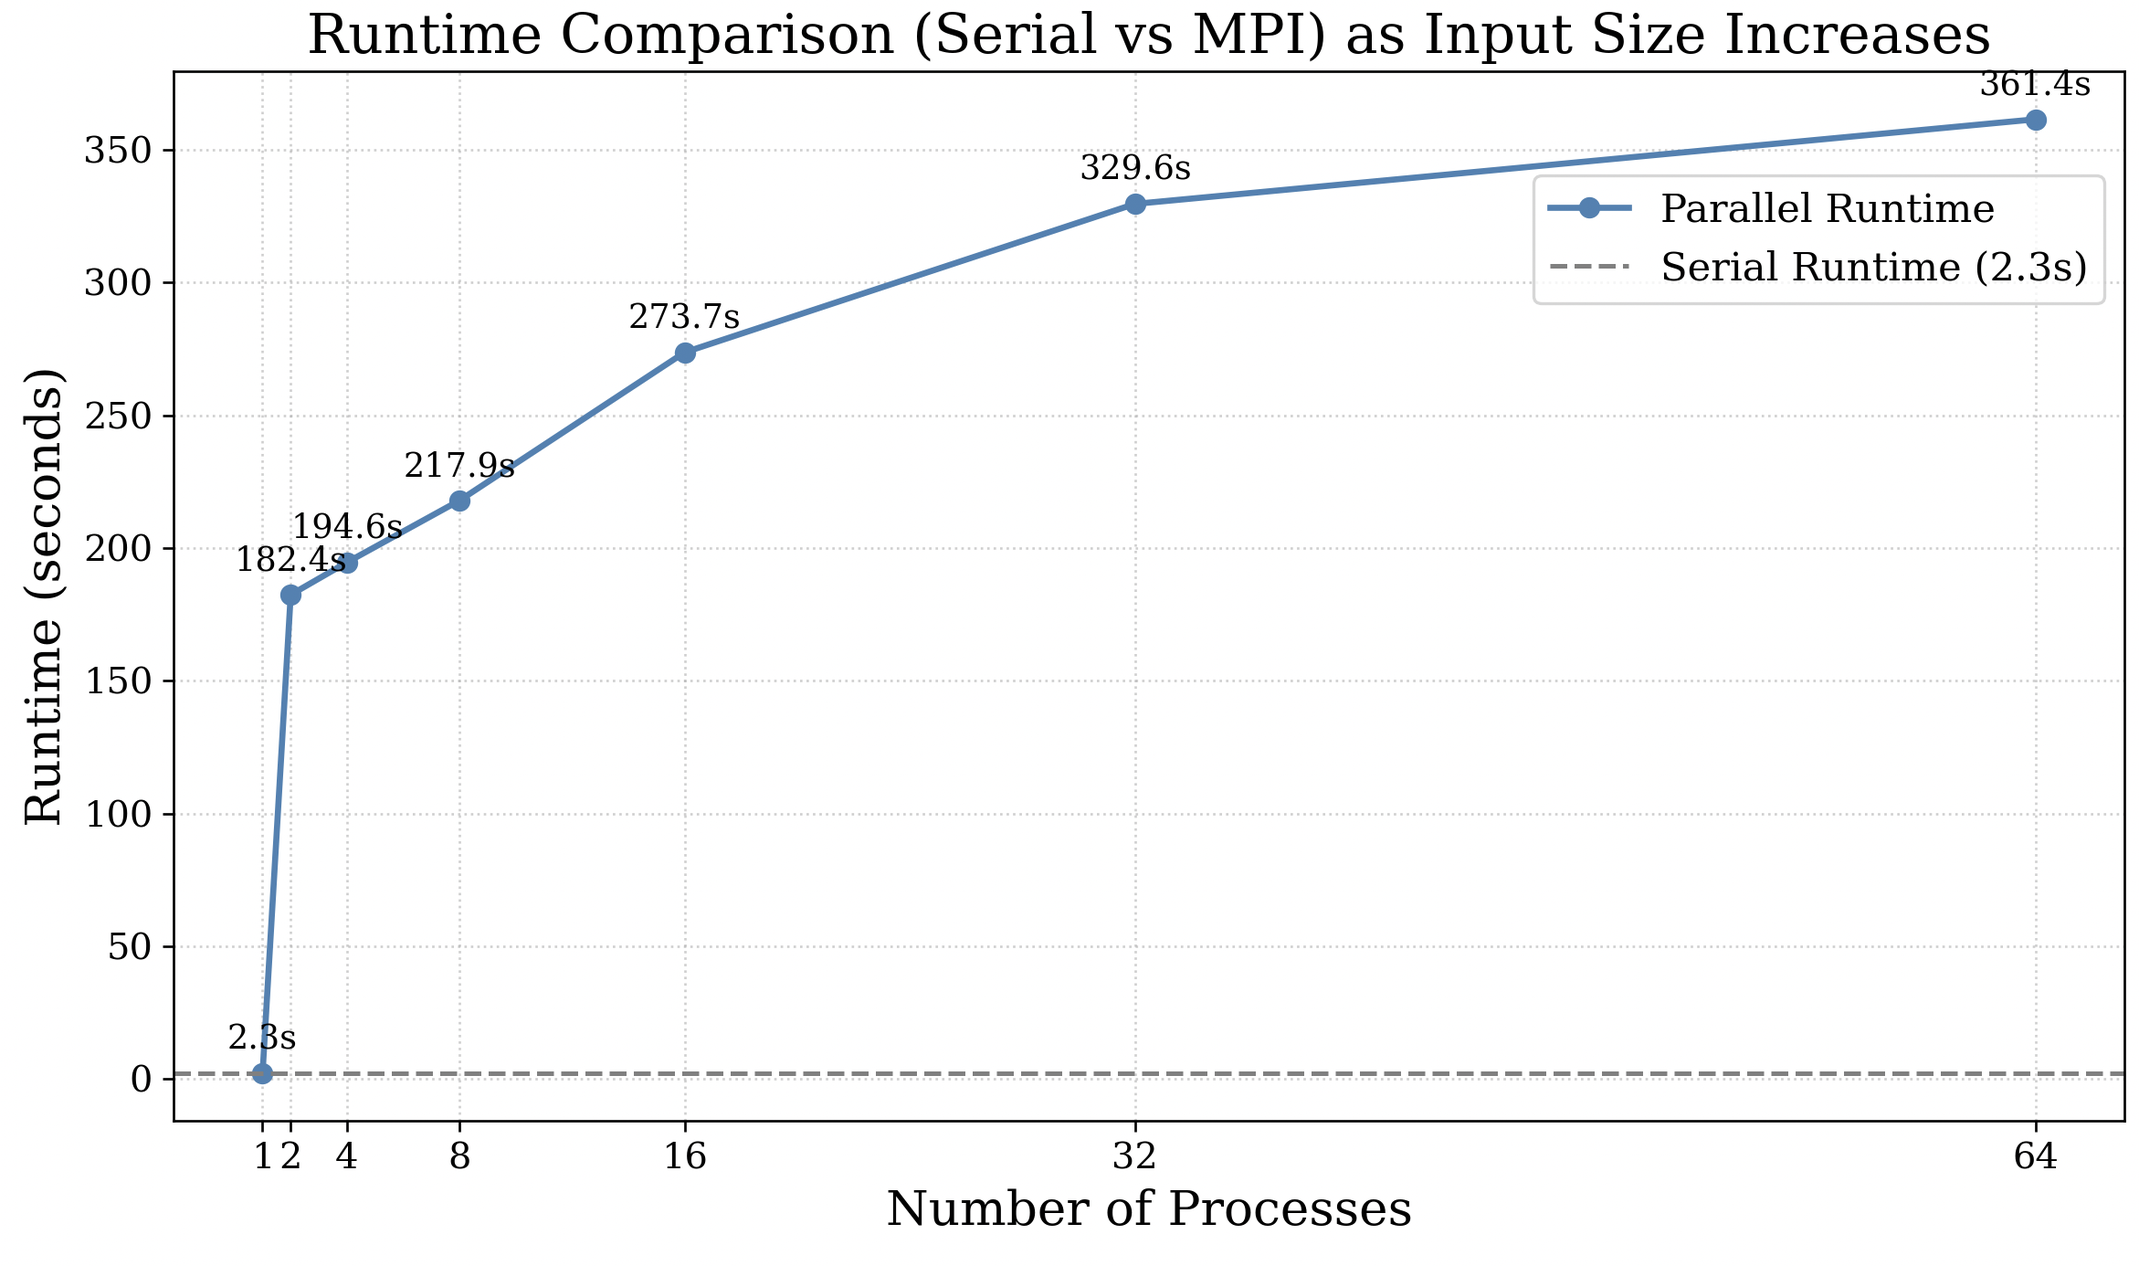
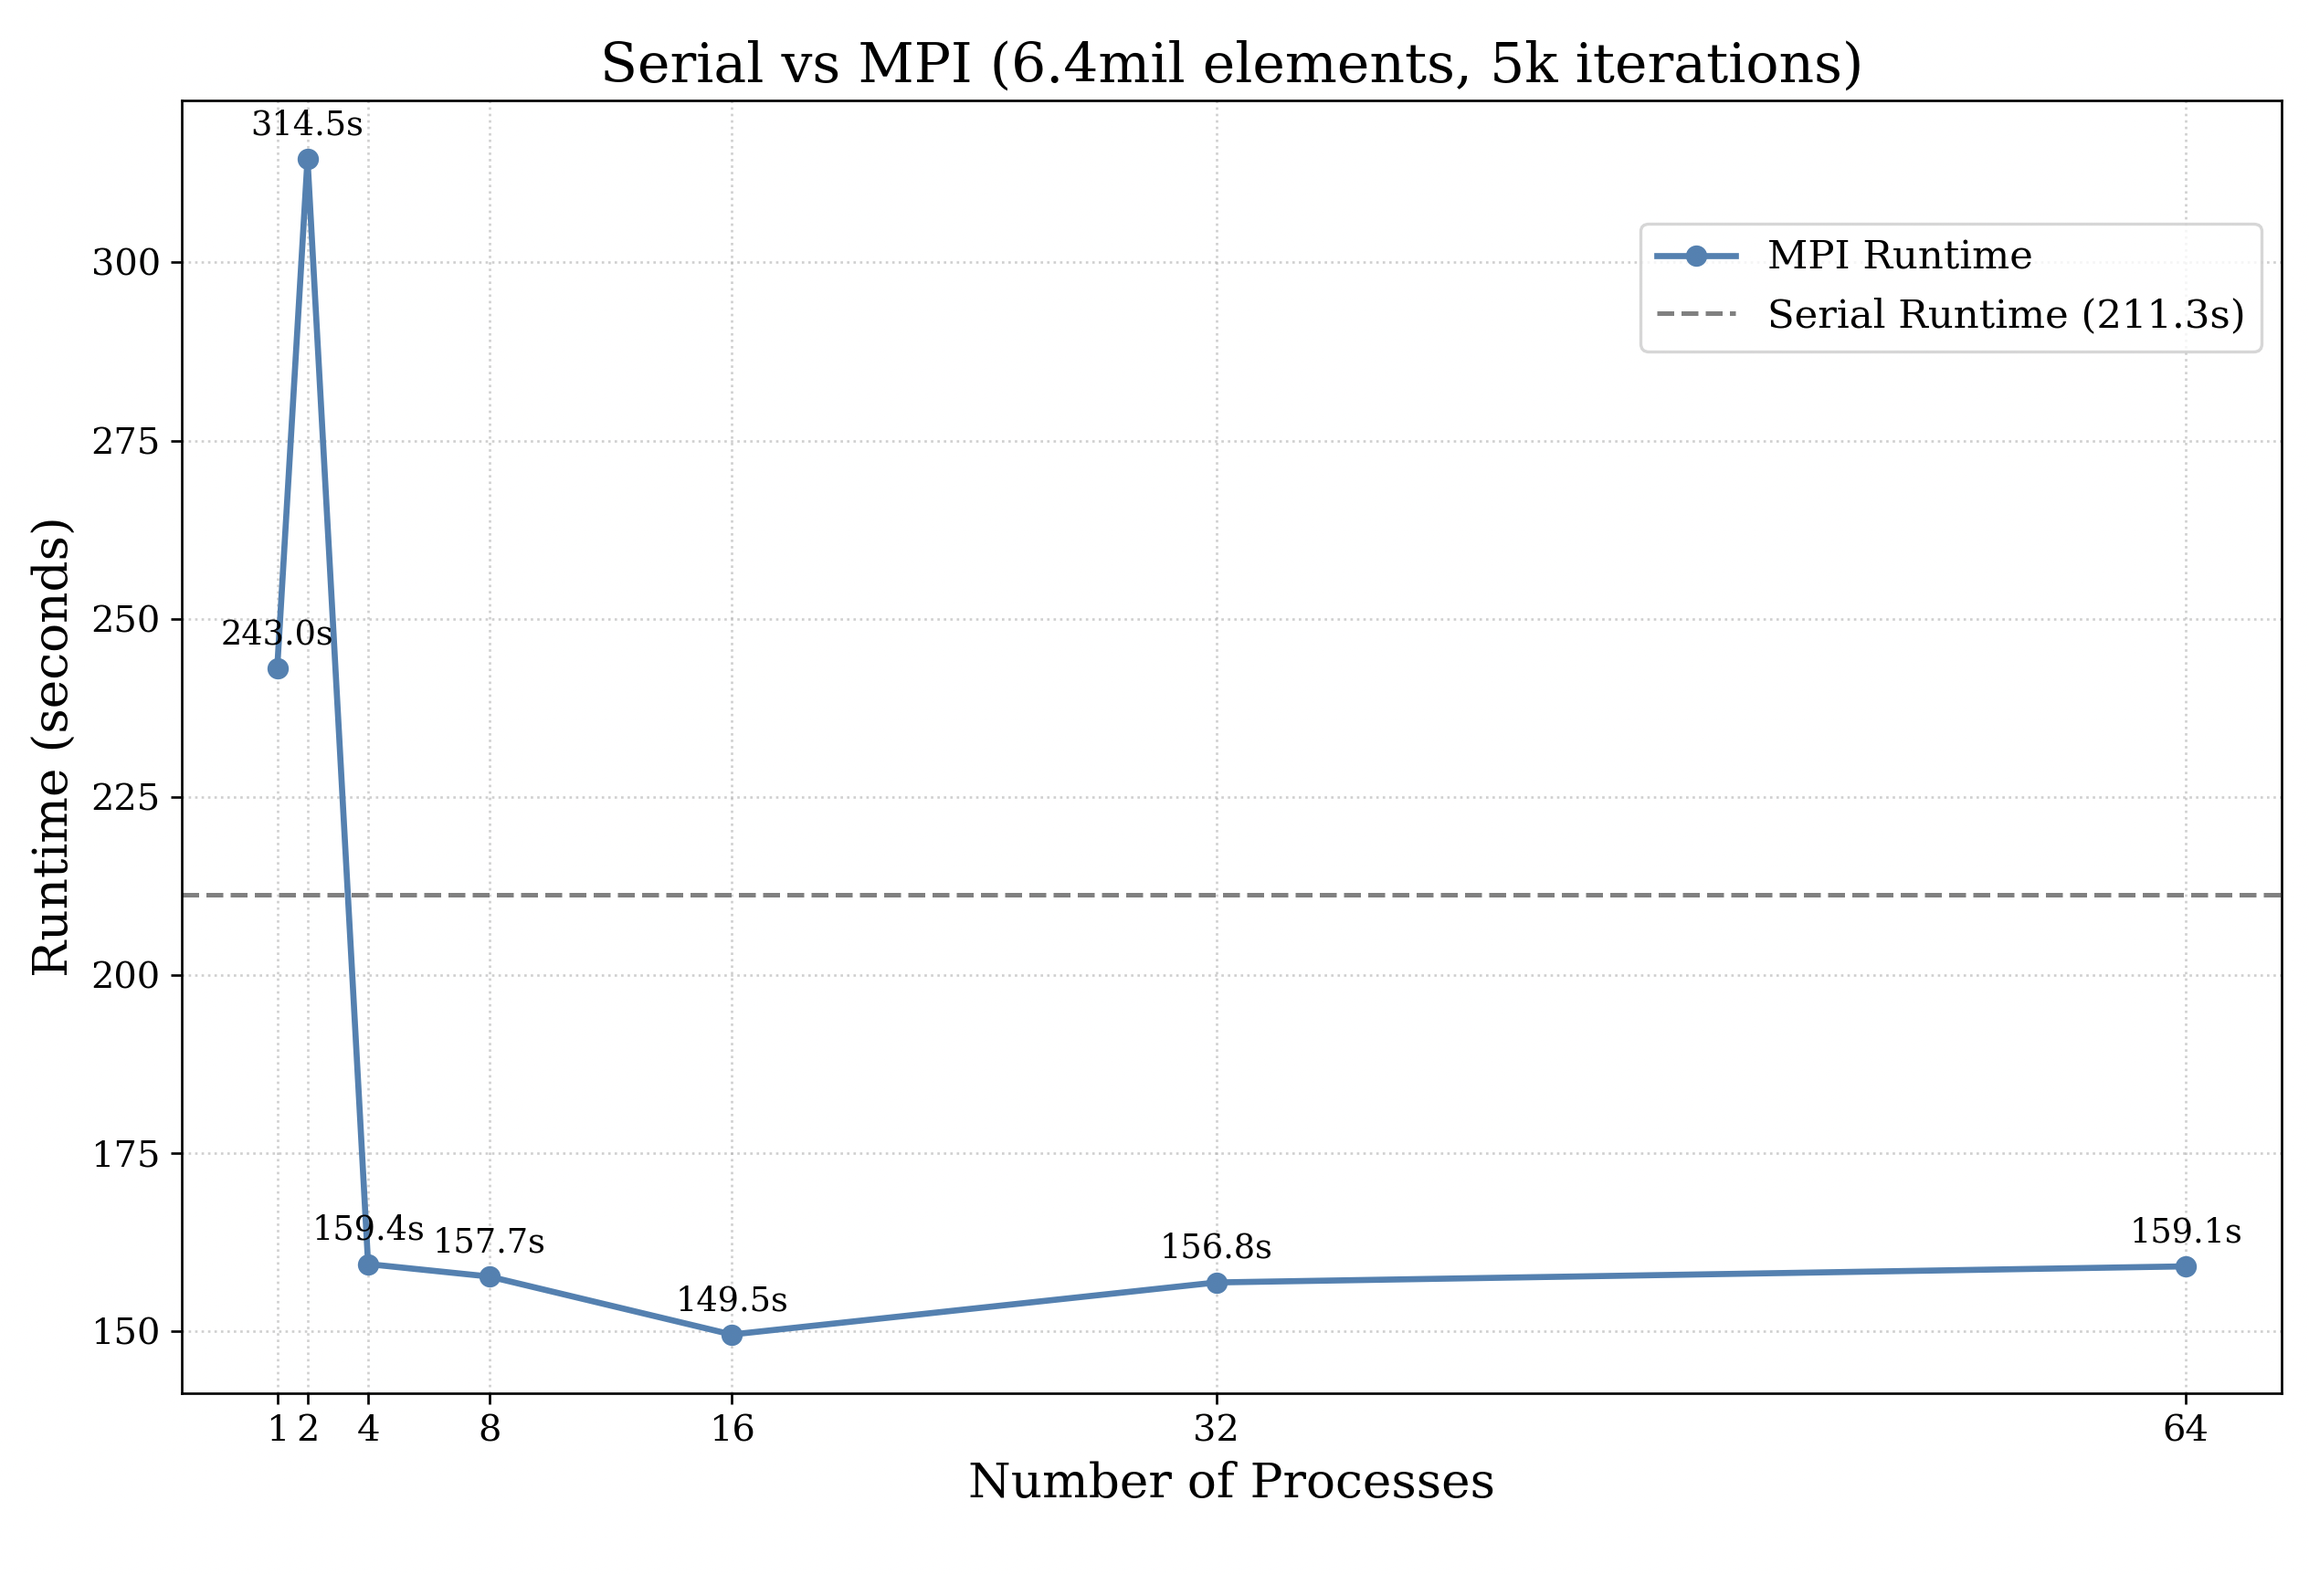
feat(a4,ex1): new plots for ex1

diff --git a/4_mpi/ex1/plotting.py b/4_mpi/ex1/plotting.py
@@ -6,15 +6,15 @@ from matplotlib.ticker import ScalarFormatter
 processes = np.array([1, 2, 4, 8, 16, 32, 64])
 
 # STRONG SCALING OUTPUT (grid_size: 64k)
-strong_parallel_runtimes = np.array([2.286553, 182.384184, 194.5907123, 217.889325333, 273.67067133, 329.56532066667, 361.425328])
-strong_serial_runtime = 2.2942683333333
+strong_parallel_runtimes = np.array([243.0345606, 314.540523, 159.402732, 157.657124, 149.51748966667, 156.826076, 159.0870116667])
+strong_serial_runtime = 211.29658366667
 
 # WEAK SCALING OUTPUT 
-weak_parallel_runtimes = np.array([0.0323533, 182.778657, 216.88798, 253.73465, 250.102656, 348.02532, 336.28399])
+weak_parallel_runtimes = np.array([3.160681, 159.68600033333, 159.81163366667, 85.39034433333, 120.285542667, 155.900423, 159.061618])
 
 # NODE COUNT OUTPUT
 node_counts = np.array([1, 2, 4, 8, 16])
-node_counts_runtime = np.array([329.56532066667, 385.51837966667, 347.413121, 356.071311, 332.15855]) 
+node_counts_runtime = np.array([156.826076, 142.91806666667, 151.1013356667, 152.156104333, 159.990621]) 
 
 plt.rcParams.update({
     "font.family": "serif",
@@ -29,14 +29,15 @@ plt.rcParams.update({
 
 fig, ax = plt.subplots(figsize=(10, 6))
 
-def plot_serial_parallel_comparison():
+def plot_serial_parallel_comparison(title, show_serial=True):
     ax.plot(processes, strong_parallel_runtimes, marker='o', linestyle='-', linewidth=2,
             color='steelblue', label='MPI Runtime')
 
-    # ax.axhline(strong_serial_runtime, color='gray', linestyle='--', linewidth=1.5,
-    #         label=f'Serial Runtime ({strong_serial_runtime:.1f}s)')
+    if show_serial:
+        ax.axhline(strong_serial_runtime, color='gray', linestyle='--', linewidth=1.5,
+                label=f'Serial Runtime ({strong_serial_runtime:.1f}s)')
 
-    ax.set_title("Strong Scaling Plot (64000 elements)")
+    ax.set_title(f"{title} (6.4mil elements, 5k iterations)")
     ax.set_xlabel("Number of Processes")
     ax.set_ylabel("Runtime (seconds)")
 
@@ -57,7 +58,7 @@ def plot_weak_scaling():
     ax.plot(processes, weak_parallel_runtimes, marker='o', linestyle='-', linewidth=2,
             color='steelblue', label="MPI Runtime")
 
-    ax.set_title("Weak Scaling Plot (Each Process: 1000 items, 5000 iterations)")
+    ax.set_title("Weak Scaling Plot (Each Process: 100k items, 5k iterations)")
     ax.set_xlabel("Number of Processes")
     ax.set_ylabel("Runtime (seconds)")
 
@@ -82,7 +83,7 @@ def plot_diff_node_counts():
     ax.set_xlabel("Number of Nodes")
     ax.set_ylabel("Runtime (seconds)")
 
-    ax.set_yticks(range(200, 500, 50))
+    ax.set_yticks(range(100, 250, 50))
     ax.set_xticks(node_counts)
     ax.get_xaxis().set_major_formatter(ScalarFormatter())
     ax.grid(True, which='major', linestyle=':', linewidth=0.8, alpha=0.6)
@@ -96,4 +97,12 @@ def plot_diff_node_counts():
     plt.tight_layout()
     plt.show()
 
-plot_serial_parallel_comparison()
+# MPI vs Serial Comparison
+# plot_serial_parallel_comparison(title="Serial vs MPI")
+# Strong Scaling
+# plot_serial_parallel_comparison(title="Strong Scaling", show_serial=False)
+# Weak Scaling
+# plot_weak_scaling()
+# Different Nodes Plot
+plot_diff_node_counts()
+
